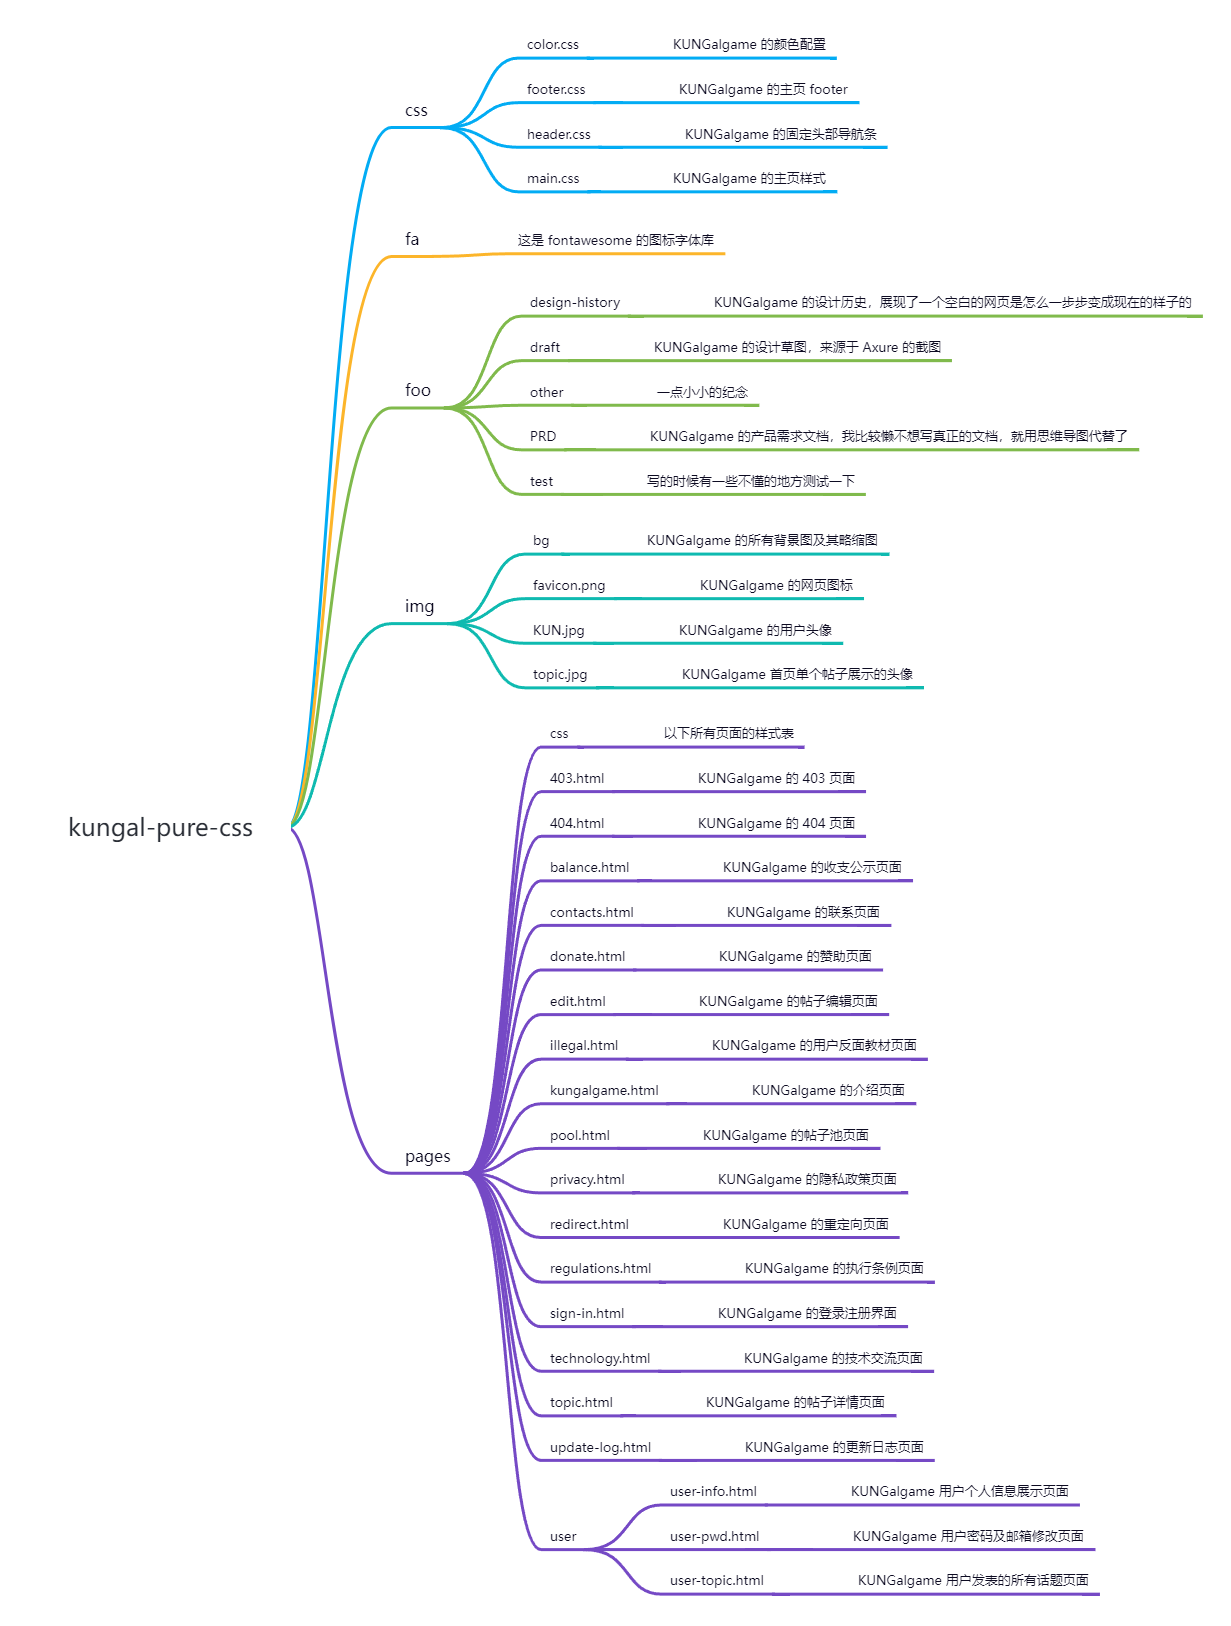
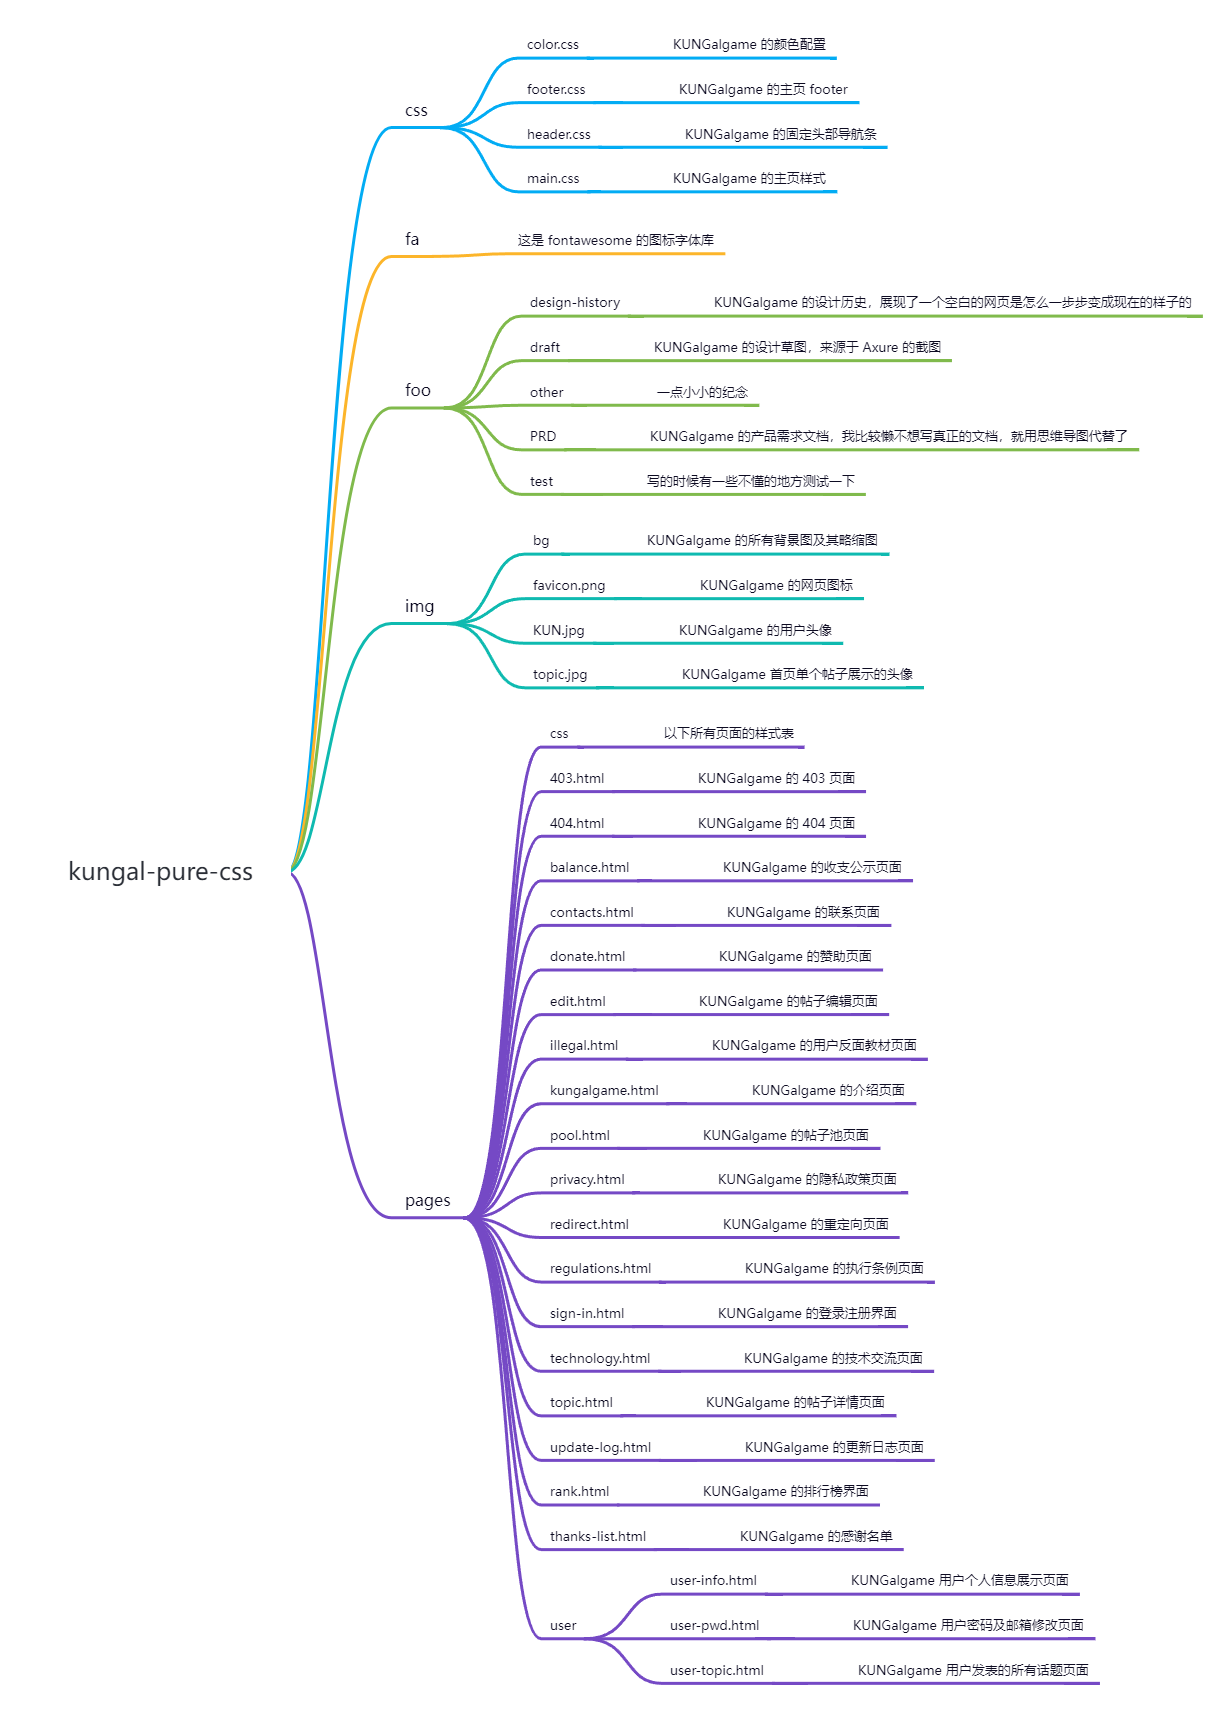
Add rank, thanks-list page

diff --git a/pages/regulations.html b/pages/regulations.html
@@ -133,6 +133,7 @@
                 4. 一旦单个帖子“踩”的数量达到
                 10，该帖子会被系统屏蔽，交由管理审核
               </li>
+              <li>5. 每天晚上 12: 00 帖子池会清空一轮，留下昨天帖子热度值最高的 17 个帖子，热度值相同则都被推送</li>
             </ul>
           </div>
         </div>

diff --git a/pages/rank.html b/pages/rank.html
@@ -1,0 +1,15 @@
+<!-- 
+    这是 KUNGalgame 的用户和帖子排行榜页面
+ -->
+<!DOCTYPE html>
+<html lang="en">
+<head>
+    <meta charset="UTF-8">
+    <meta http-equiv="X-UA-Compatible" content="IE=edge">
+    <meta name="viewport" content="width=device-width, initial-scale=1.0">
+    <title>排行榜</title>
+</head>
+<body>
+    
+</body>
+</html>

diff --git a/pages/thanks-list.html b/pages/thanks-list.html
@@ -1,0 +1,15 @@
+<!-- 
+    这是 KUNGalgame 的感谢名单
+ -->
+<!DOCTYPE html>
+<html lang="en">
+<head>
+    <meta charset="UTF-8">
+    <meta http-equiv="X-UA-Compatible" content="IE=edge">
+    <meta name="viewport" content="width=device-width, initial-scale=1.0">
+    <title>感谢名单</title>
+</head>
+<body>
+    
+</body>
+</html>

diff --git a/pages/css/kungalgame.css b/pages/css/kungalgame.css
@@ -9,7 +9,7 @@
   /* 居中 */
   margin: 0 auto;
   margin-top: 17px;
-  padding: 10px;
+  padding: 7px;
   /* 相对于版权定位 */
   position: relative;
 }
@@ -19,6 +19,7 @@
   border: 1px solid var(--kungalgame-blue-4);
   border-radius: 7px;
   display: flex;
+  box-shadow: var(--shadow);
 }
 /* 侧边的文章结构索引 */
 .aside {
